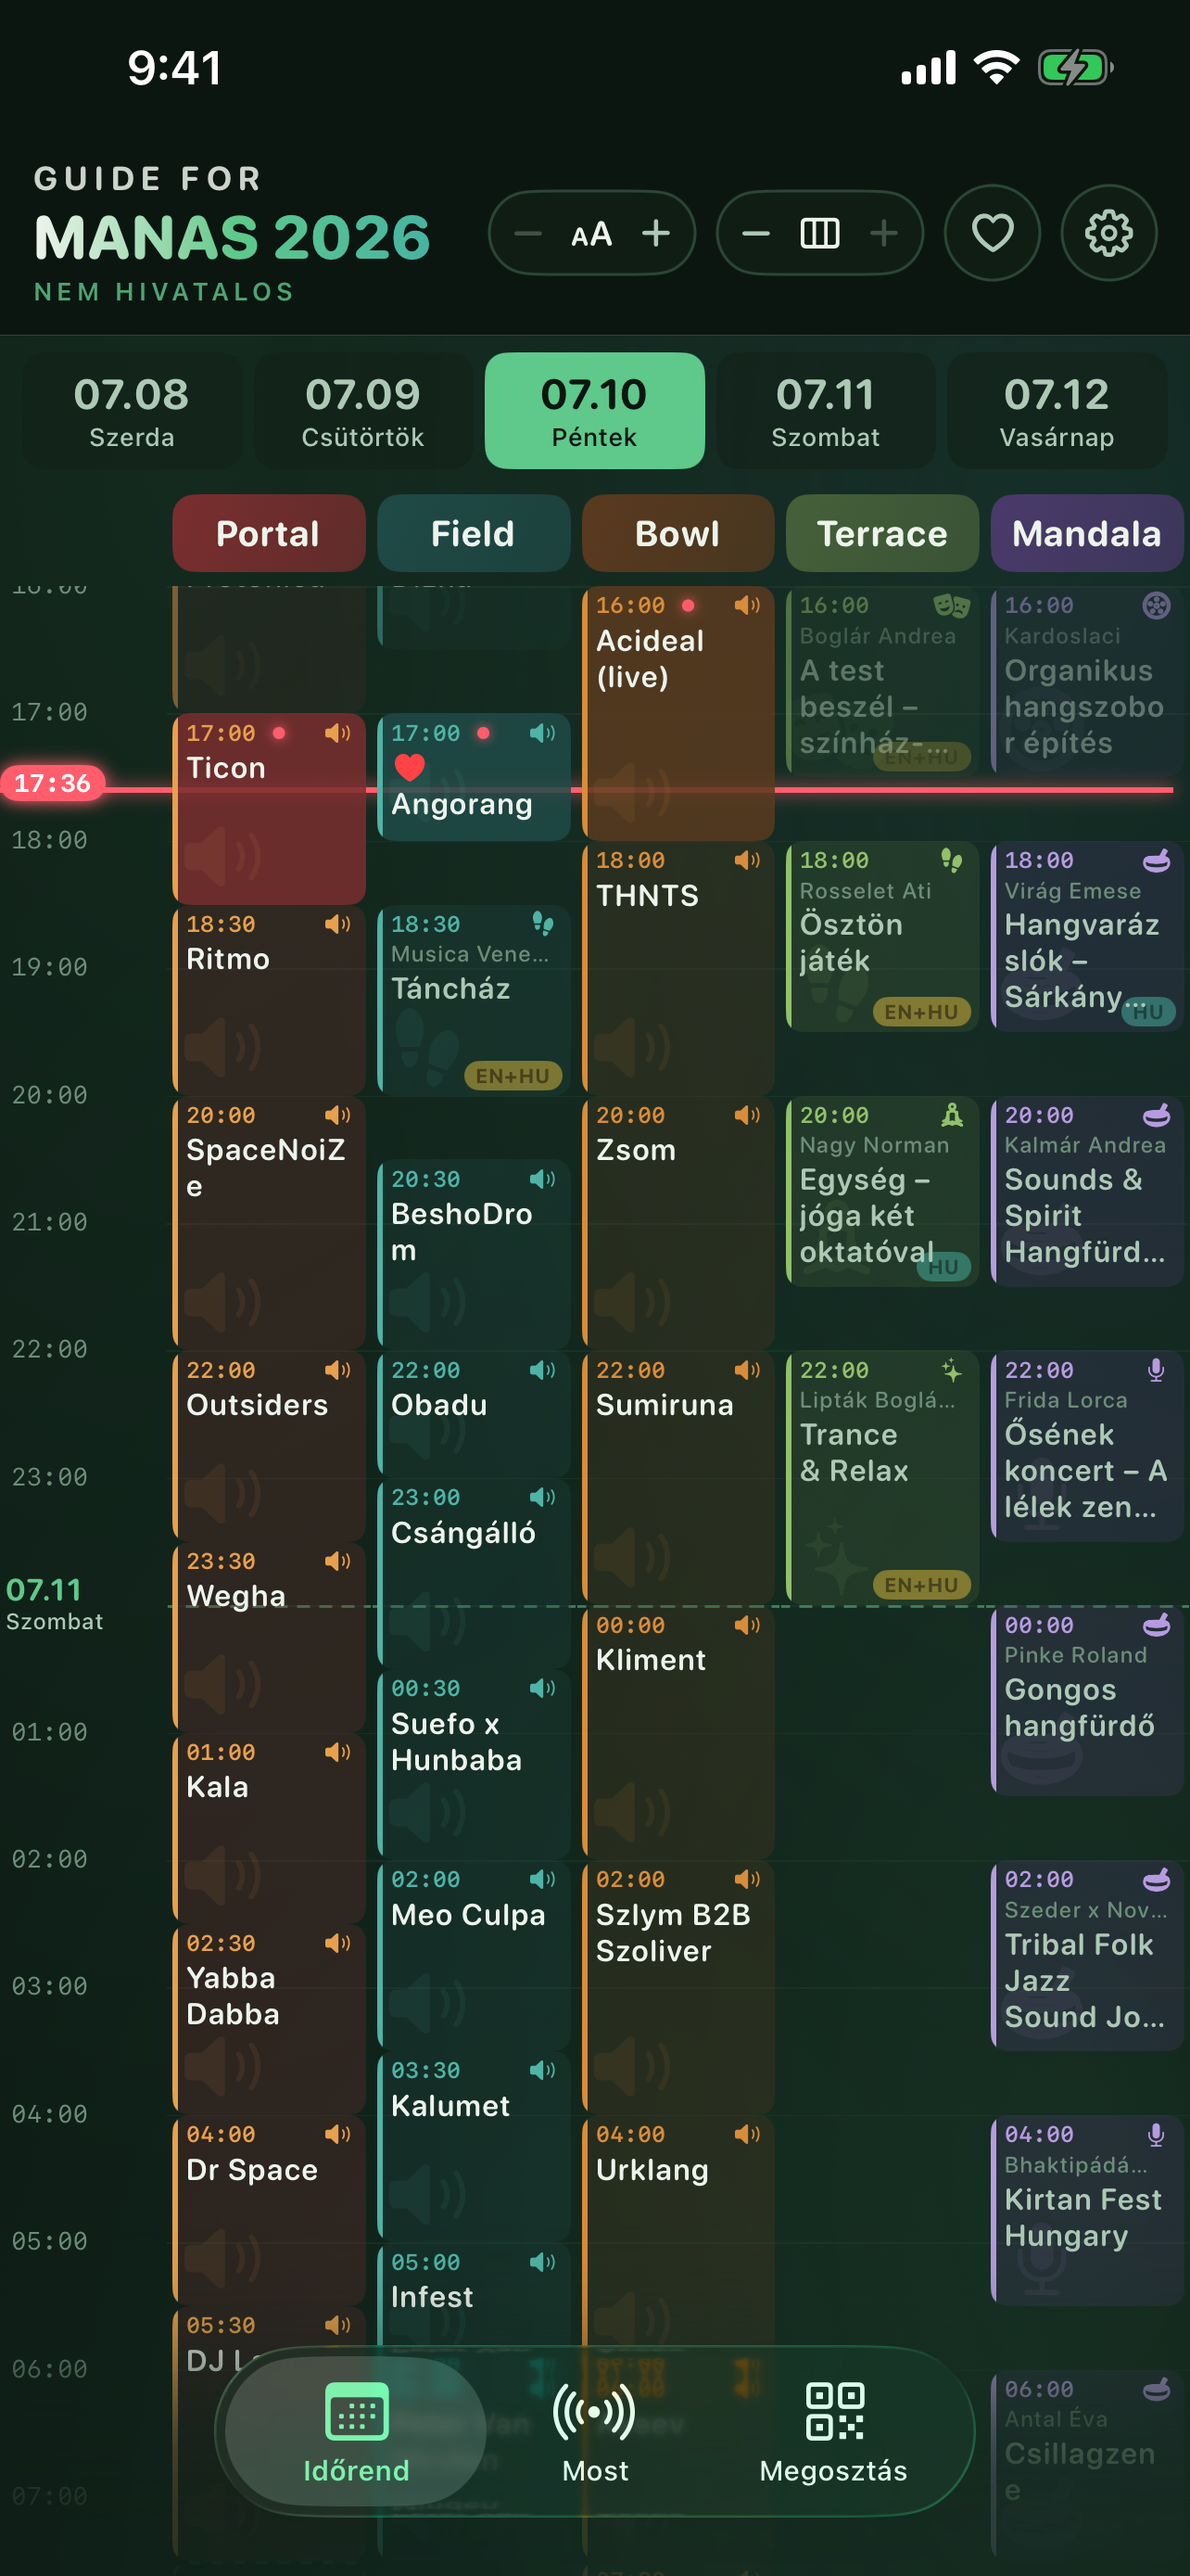
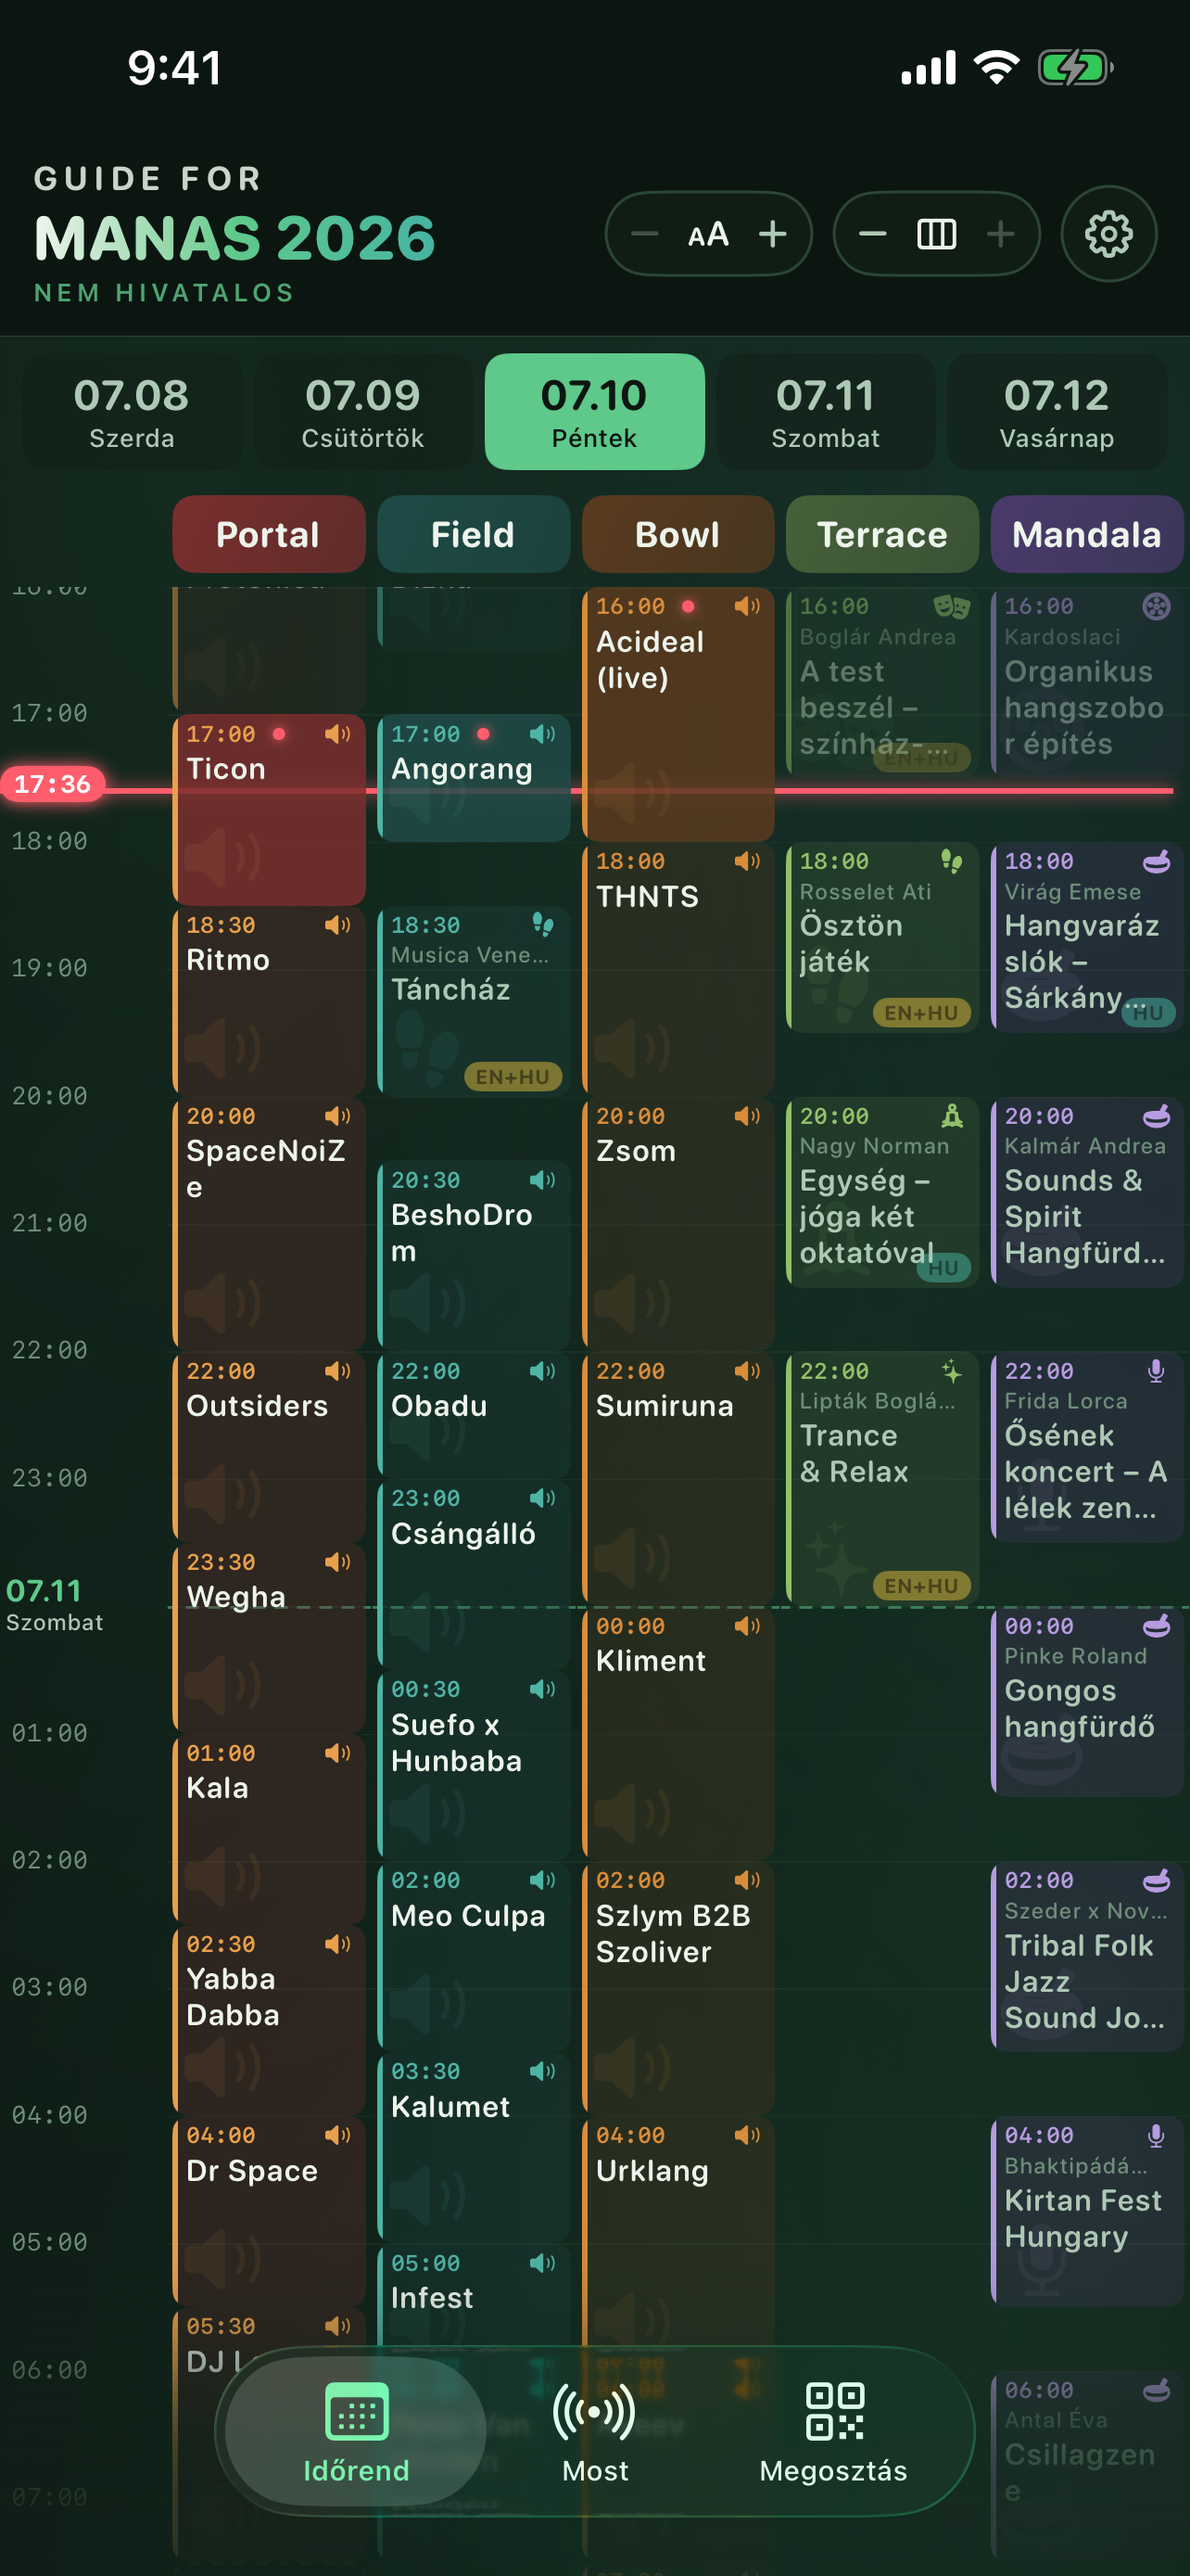
fix(apple): stop paired-simulator favorites bleeding into screenshots
The friday timetable shot picked up a stray Angorang heart: the watch
shot's applicationContext survived on the paired simulator and WCSession
merged it into the next run's iPhone captures. A present
manas.startFavorites (now pinned on every shot, empty = none) switches
FavoritesStore to per-launch mode and skips sync activation.

diff --git a/apple/Sources/ManasKit/Favorites.swift b/apple/Sources/ManasKit/Favorites.swift
@@ -38,11 +38,16 @@ public final class FavoritesStore: ObservableObject {
            let decoded = try? JSONDecoder().decode([String: FavState].self, from: data) {
             states = decoded
         }
-        // Screenshot-harness override (DEBUG/TestFlight): `-manas.startFavorites
-        // "slug1,slug2"` replaces the set for THIS launch only — nothing is
-        // persisted here, so shots stay deterministic (like manas.debugNow).
+        // Screenshot-harness override (DEBUG/TestFlight): a PRESENT
+        // `-manas.startFavorites "slug1,slug2"` replaces the set for THIS launch
+        // only (empty value → no favorites) — nothing is persisted, so shots stay
+        // deterministic (like manas.debugNow). It also disables WCSession sync
+        // below: a paired simulator's stale applicationContext once merged a
+        // watch shot's favorite into the next run's iPhone shots.
+        var harnessRun = false
         if AppEnv.debugToolsEnabled,
-           let raw = defaults.string(forKey: "manas.startFavorites"), !raw.isEmpty {
+           let raw = defaults.string(forKey: "manas.startFavorites") {
+            harnessRun = true
             let now = Date().timeIntervalSince1970
             states = Dictionary(uniqueKeysWithValues: raw.split(separator: ",").map {
                 ($0.trimmingCharacters(in: .whitespaces), FavState(isFav: true, ts: now))
@@ -53,7 +58,7 @@ public final class FavoritesStore: ObservableObject {
         #if canImport(WatchConnectivity)
         // isSupported() is false in app extensions (the widget process must
         // never activate a session) and on iPad — only real apps sync.
-        if WCSession.isSupported() { sync = FavoritesSync(store: self) }
+        if !harnessRun, WCSession.isSupported() { sync = FavoritesSync(store: self) }
         #endif
     }
 

diff --git a/apple/screenshots/make_screenshots.py b/apple/screenshots/make_screenshots.py
@@ -156,8 +156,10 @@ def launch_args(shot: dict, lang: str, coords: dict) -> list[str]:
     a += ["-manas.fontSize", str(shot.get("font", 3))]
     if shot.get("empty"):                       # watch: force the "nothing on" card
         a += ["-manas.startNoProgram", "YES"]
-    if fav := shot.get("favorites"):            # comma-separated event slugs → hearts
-        a += ["-manas.startFavorites", str(fav)]
+    # Always pin favorites (comma-separated event slugs → hearts; empty = none):
+    # a present key also makes FavoritesStore skip WCSession sync, so a paired
+    # simulator's stale applicationContext can't bleed hearts into a shot.
+    a += ["-manas.startFavorites", str(shot.get("favorites", ""))]
     if shot.get("favfilter"):                   # timetable favorites dim-filter on
         a += ["-manas.startFavFilter", "YES"]
     view = shot.get("view")

diff --git a/apple/CLAUDE.md b/apple/CLAUDE.md
@@ -191,7 +191,10 @@ disclaimer with `-manas.disclaimerSeen 1`.
   scripted capture. Extra invisible, DEBUG-gated screenshot-only defaults beyond
   the two above: `manas.startView` (`timetable`/`now`/`share` tab or `settings`
   sheet), `manas.hideTestUI` (hide the in-app Testing section),
-  `manas.startFavorites` (comma-separated event slugs → red hearts, per-launch),
+  `manas.startFavorites` (comma-separated event slugs → red hearts, per-launch;
+  the harness pins it on every shot — its presence also disables WCSession sync,
+  because a paired simulator's stale applicationContext once bled a watch shot's
+  favorite into the next run's iPhone captures),
   `manas.startFavFilter` (turn on the timetable favorites dim-filter — pair with
   `manas.startFavorites`), and `manas.startWidgetPreview` (render widget card(s)
   full-screen — watch: one stage slug; iPhone: `"medium,small"` slugs, e.g.
